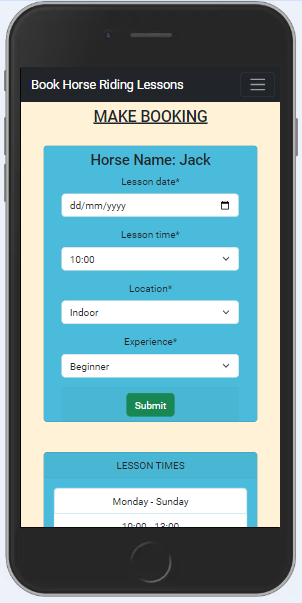
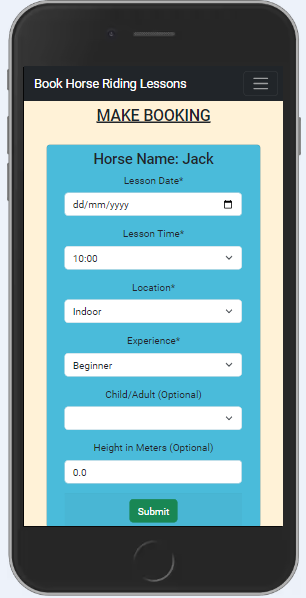
update make booking screenshots

diff --git a/README.md b/README.md
@@ -397,6 +397,9 @@ The booking form and edit_booking forms are validated to ensure:
 * This field is validated to ensure the user does not choose a previous date.
 * The next three input fields are dropdown menus allowing the user to choose from a specific list.
 * The user can choose the lesson time, indoor or outdoor and their level of experience.
+* There are also two optional input fields at the bottom of the form.
+* The first allows the user to indicate if they are an adult or a child.
+* The second allows the user to enter their height in meters.
 
 ![Make Booking Page](documentation/screenshots/tablet/make_booking.png)
 
@@ -413,7 +416,7 @@ The booking form and edit_booking forms are validated to ensure:
 #### Edit Booking Page
 
 * The "Edit Booking Page" has a form similar to the "make booking" form.
-* The user can change any of the four input field values and click on the "Update Booking" button.
+* The user can change any of the six input field values and click on the "Update Booking" button.
 * This will update the details of their booking in the database.
 * The "Cancel" button allows the user to return to the "My Bookings Page".
 
@@ -452,23 +455,23 @@ The booking form and edit_booking forms are validated to ensure:
 
 * Update Successful
 
-![Update Successful Message](documentation/screenshots/desktop/messages/update_successful.png)
+![Update Successful Message](documentation/screenshots/desktop/messages/update_successful_bar.png)
 
 * Booking Deleted Successfully
 
-![Booking Deleted Successfully Message](documentation/screenshots/desktop/messages/delete_successful.png)
+![Booking Deleted Successfully Message](documentation/screenshots/desktop/messages/delete_successful_bar.png)
 
 * Horse Booked
 
-![Horse Booked Message](documentation/screenshots/desktop/messages/horse_booked.png)
+![Horse Booked Message](documentation/screenshots/desktop/messages/horse_booked_bar.png)
 
 * Lesson Time Booked
 
-![Lesson Time Booked Message](documentation/screenshots/desktop/messages/lesson_time_booked.png)
+![Lesson Time Booked Message](documentation/screenshots/desktop/messages/lesson_time_booked_bar.png)
 
 * Date Not Current
 
-![Date Not Current Message](documentation/screenshots/desktop/messages/date_not_current.png)
+![Date Not Current Message](documentation/screenshots/desktop/messages/date_not_current_bar.png)
 
 ### Future Features
 * Allow users to add reviews for each horse.
